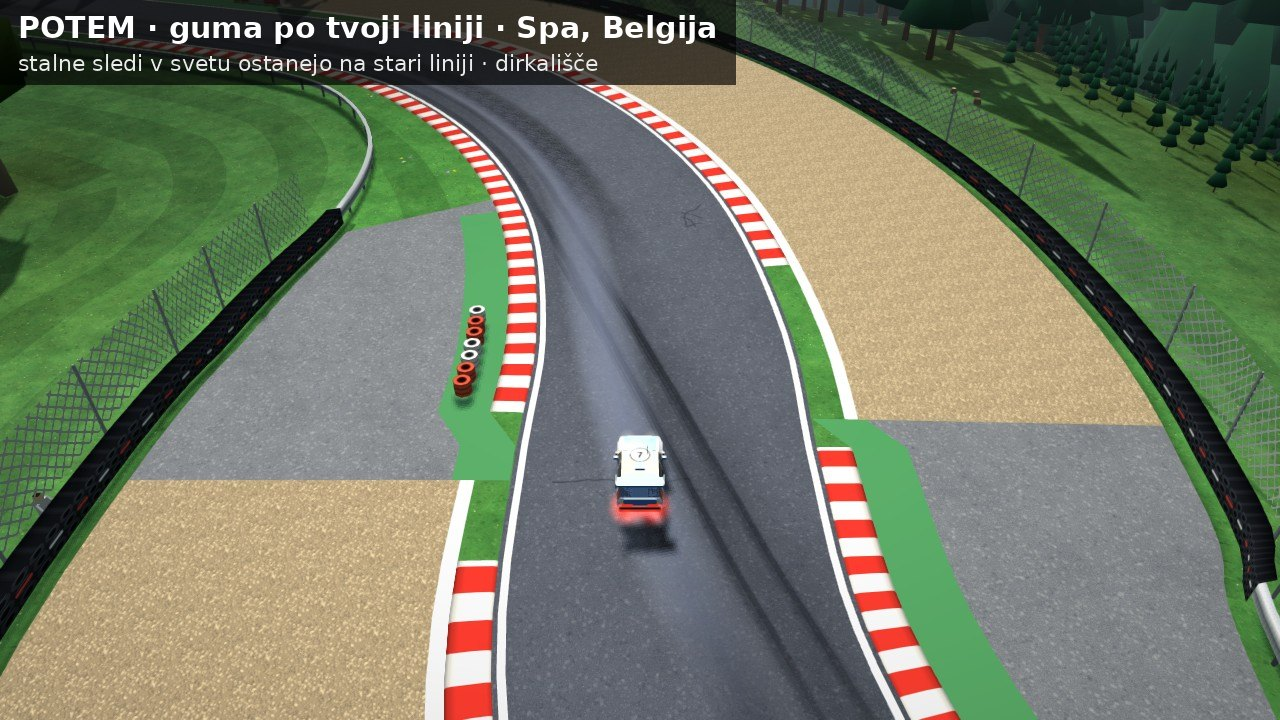
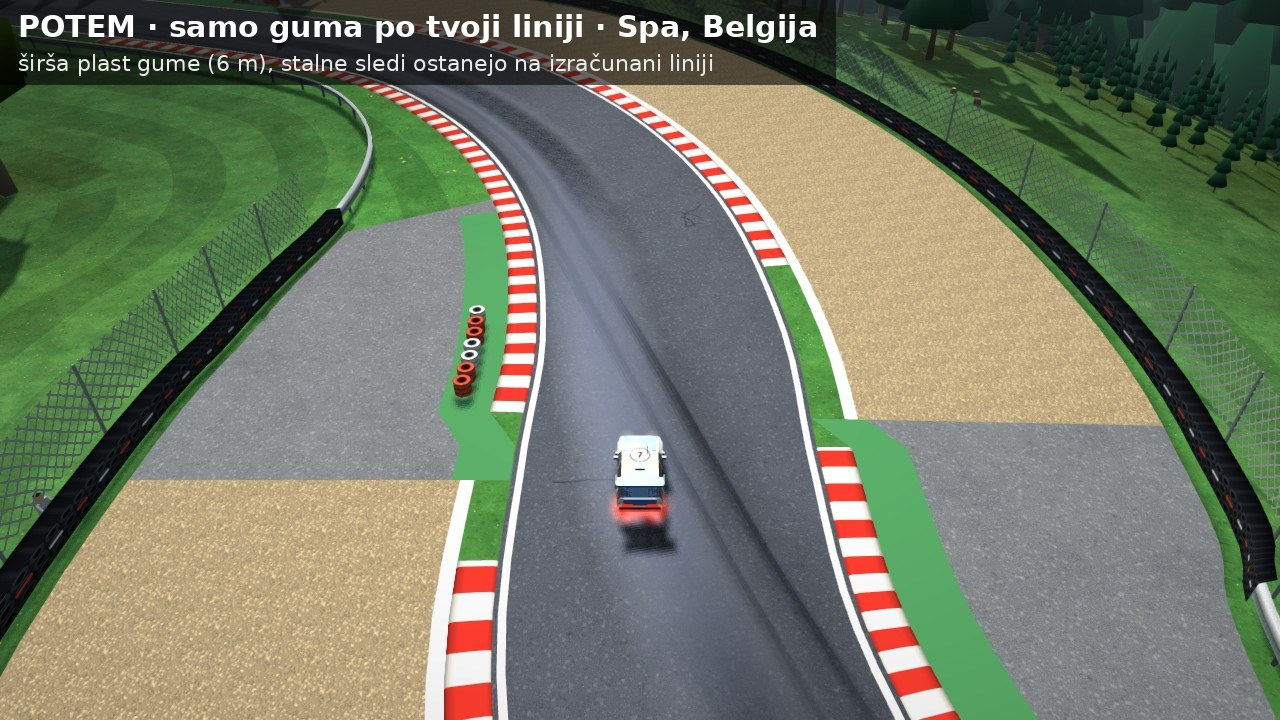
Slike zdaj in potem: širša plast gume v prototipu (?guma=1), nove slike
Plast na uporabnikovi liniji je široka 6,2 m namesto 3,5 m (sedem
stolpcev, omejena na asfalt); brez ?guma=1 ostane vse, kot je.

Claude-Session: https://claude.ai/code/session_01WbgGzrVGe2rqquaMugizoT

Changed region(s): [[0.0312, 0.0, 0.6562, 0.2139], [0.4062, 0.2139, 0.5625, 0.7944], [0.5625, 0.7639, 0.5938, 0.7944]]

diff --git a/js/render.js b/js/render.js
@@ -3904,6 +3904,7 @@ const Render = (function () {
   // One mesh over the lap (a row every 4 m in the bends, every 8 m on the straights), built the first time it shows; a new world: built
   // again for its track. Its picture: Tex.rubber
   const RUB_O = [-1.75, -0.95, 0, 0.95, 1.75], RUB_A = [0, 0.6, 1, 0.6, 0], RUB_C = [0.3, 0.19, 0.12, 0.19, 0.3];
+  const RUB_OW = [-3.1, -2.1, -1.05, 0, 1.05, 2.1, 3.1], RUB_AW = [0, 0.4, 0.85, 1, 0.85, 0.4, 0], RUB_CW = [0.3, 0.25, 0.16, 0.12, 0.16, 0.25, 0.3];   // (the prototype's wider layer, ?guma=1: »Plast gume naj bo širša«)
   let rbLn = null, rbTex = null;
   function rubberLine(R) {
     // (the prototype for the pictures »zdaj in potem«, docs/zgumirana-linija.md; Race.rubRl, opts.guma: the rubber on the player's line, RL, on an
@@ -3913,7 +3914,8 @@ const Render = (function () {
     if (rbLn && (rbLn.userData.w !== world || rbLn.userData.rl !== RL)) { scene.remove(rbLn); rbLn.geometry.dispose(); rbLn.material.dispose(); rbLn = null; }
     const rb = R && T === curTrack && T.rl ? (R.mb ? R.mb.rb || 0 : RL ? (R.rubLv != null ? R.rubLv : 0.6) : 0) : 0;
     if (rb > 0.005 && !rbLn && world) {
-      const N = T.N, nc = RUB_O.length, rk = T.rk, bk = { dy: 0, sl: 0 }, cu = new Float32Array(N), pos = [], col = [], uv = [], idx = [], line = RL || T.rl, iE = RL && T.open ? N - 1 : N;
+      const RO = RL ? RUB_OW : RUB_O, RA = RL ? RUB_AW : RUB_A, RC = RL ? RUB_CW : RUB_C;   // (the prototype: wider, and kept on the asphalt)
+      const N = T.N, nc = RO.length, rk = T.rk, bk = { dy: 0, sl: 0 }, cu = new Float32Array(N), pos = [], col = [], uv = [], idx = [], line = RL || T.rl, iE = RL && T.open ? N - 1 : N;
       for (let i = 0; i < N; i++) { let s = 0; for (let o = -8; o <= 8; o++) s += rk[(i + o + N) % N]; cu[i] = Math.abs(s / 17); }
       let ld = null;
       if (RL && R.vprof) { const vp = R.vprof, raw = new Float32Array(N); ld = new Float32Array(N);
@@ -3922,10 +3924,10 @@ const Render = (function () {
       for (let i = 0, j = 0; i <= iE; j++) {
         const ii = i % N, kb = ld ? 0.4 + 0.6 * Math.pow(ld[ii], 0.7) : 0.7 + 0.3 * Core.sstep(1 / 400, 1 / 90, cu[ii]), b0 = pos.length / 3;
         for (let v = 0; v < nc; v++) {
-          const o = line[ii] + RUB_O[v]; let y = (T.hasElev && T.hy ? T.hy[ii] : 0) + (RL && T.open ? 0.05 : 0.032);
+          const lim = RL ? (T.wa ? T.wa[ii] : T.w) - 0.1 : 1e9, o = Math.max(-lim, Math.min(lim, line[ii] + RO[v])); let y = (T.hasElev && T.hy ? T.hy[ii] : 0) + (RL && T.open ? 0.05 : 0.032);
           if (T.bank) y += T.bankAt(ii * T.ds, o, bk).dy;
           pos.push(T.px[ii] + T.nx[ii] * o, y, T.pz[ii] + T.nz[ii] * o);
-          col.push(RUB_C[v], RUB_C[v] * 0.96, RUB_C[v] * 0.92, RUB_A[v] * kb); uv.push(RUB_O[v] / 4, i * T.ds / 8);
+          col.push(RC[v], RC[v] * 0.96, RC[v] * 0.92, RA[v] * kb); uv.push(RO[v] / 4, i * T.ds / 8);
         }
         if (j) for (let v = 0; v < nc - 1; v++) { const a = b0 - nc + v, c = b0 + v; idx.push(a, a + 1, c, a + 1, c + 1, c); }   // (facing up)
         if (i === iE) break;

diff --git a/docs/zgumirana-linija.md b/docs/zgumirana-linija.md
@@ -6,6 +6,7 @@ Zapiski raziskave 9. 11. 2026 (Matej, brez sprememb kode). Številke vrstic so p
 - 9. 11. 2026 ob ~23.54: »zgimirana linija naj gre po moji voznji po moji liniji tam kjer je posneta tam kjer pa ni pa naj zaenkrat predvideva dokler ne posnamem vseh prog«.
 - 9. 11. 2026 ob ~23.55: »zgumirano linijo daj prvo v sliki v predogled in ne zacni z delom dokler je ne potrdim«.
 - 10. 11. 2026 ob ~00.57, po slikah: »Da, tudi na odprtih cestah«. Guma gre po uporabnikovi liniji, samo videz, in pride tudi na ceste brez boksov (npr. Tianmen), kjer je zdaj ni.
+- 10. 11. 2026 med ~02.00 in ~03.00, po slikah prototipa (v seji teme partyslo): »Plast gume naj bo sirsa«.
 
 ## Obseg
 - Guma (temna sled na liniji vožnje) se riše po liniji uporabnikove vožnje, kjer je posneta; kjer ni, po predvideni liniji iz sloga vožnje. Ko uporabnik posname nove proge, jih guma prevzame brez spremembe kode.
@@ -47,6 +48,9 @@ Samo za slike (odločitvi uporabnika 10. 11. 2026 ob ~01.37 in ~01.50); na `main
 | Tianmen, šest vzorcev | 146 (največ 207), 388 tisoč (največ 545) | 150 (največ 217), 455 tisoč (največ 617) |
 
 Plast na odprti cesti je ena mreža čez vso cesto: +1 klic in +62 tisoč oglišč na sliko (12.890 oglišč, 20.616 trikotnikov). Pri šestih vzorcih je del razlike v tekmecih na drugih mestih: merilno orodje ima skupna naključna števila in nova mreža jih zamakne; dirka sama je enaka. Premik stalnih sledi ne doda ničesar. Prava izvedba naj plast razdeli na kose ob cesti, da se riše samo bližnji del.
+
+### Širša plast (10. 11. 2026, prošnja uporabnika »Plast gume naj bo sirsa«)
+V prototipu (`?guma=1`) je plast široka 6,2 m namesto 3,5 m: sedem stolpcev (`RUB_OW`: ±3,1, ±2,1, ±1,05 m in sredina; polna jakost v pasu ~2 m, do roba zbledi), stolpci ostanejo na asfaltu (omejitev na polovico širine ceste). Brez `?guma=1` velja stara širina. Slike so narejene znova (`guma-moznost-{1,2}.jpg`, `guma-{spa,tianmen}-potem{,-vse}.jpg`), primerjava ožja/širša je `guma-sirsa.jpg`. Tianmen s širšo plastjo: šest vzorcev 150 klicev (največ 217) in 486 tisoč oglišč (največ 648); 1930 m 120 klicev in 459 tisoč, 3380 m 122 in 447 tisoč (plast +93 tisoč oglišč na sliko namesto +62 tisoč; meji ~300 in ~900 tisoč). Stalni pas v svetu (`shade`) ostane enako širok; prava izvedba naj ga razširi skupaj s plastjo.
 
 ### Kaj manjka za pravo izvedbo
 - Linija ob gradnji sveta za stalni pas in sledi zaviranja (okoli 17 svetov z lastnim pasom, `tyreMarks` za vse).
